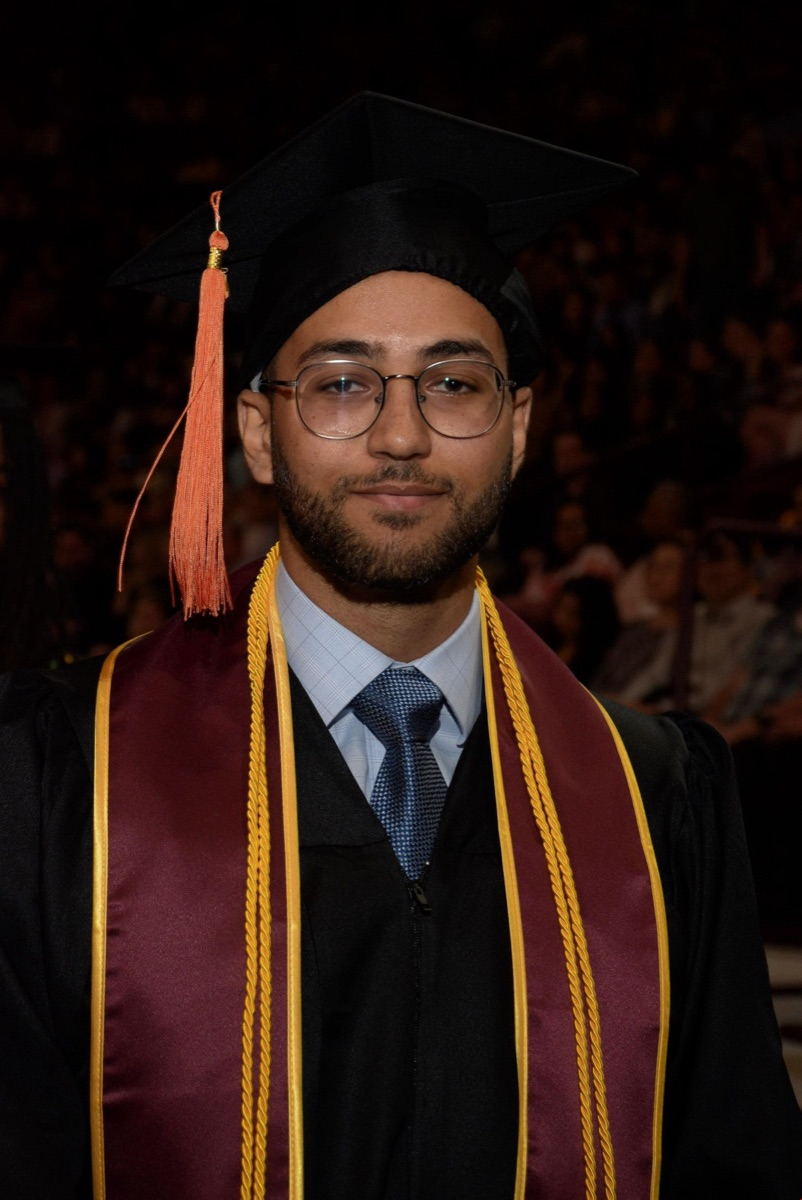
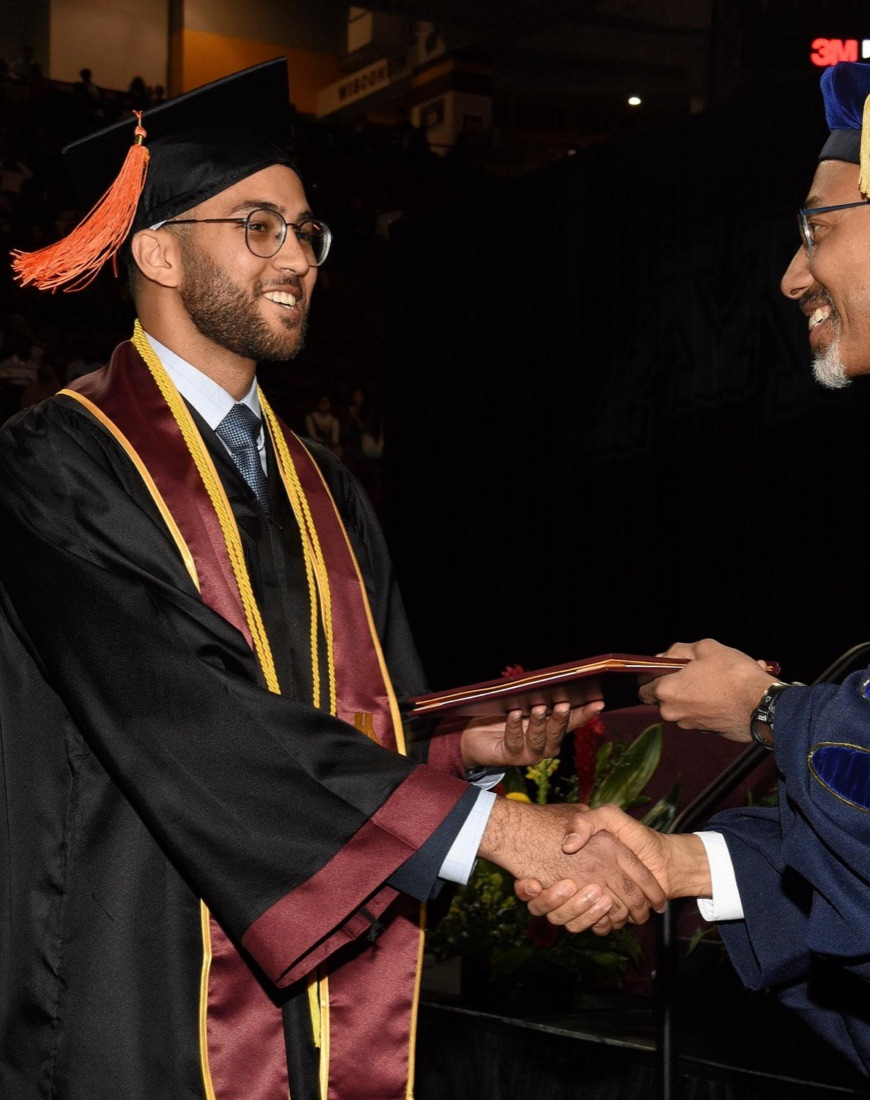
Use graduation portrait as profile photo; diploma photo in About

diff --git a/index.html b/index.html
@@ -7,7 +7,7 @@
     <meta name="description" content="Shady Ali works on interpretability, representation learning and LLM evaluation at Minnesota NLP, and as a Machine Learning Engineer at Cogmenta.">
     <meta property="og:title" content="Shady Ali">
     <meta property="og:description" content="Interpretability, representation learning and LLM evaluation. Papers, experience and CV.">
-    <meta property="og:image" content="https://shadyali.com/pp.JPG">
+    <meta property="og:image" content="https://shadyali.com/profile.jpg">
     <link rel="preconnect" href="https://fonts.googleapis.com">
     <link rel="preconnect" href="https://fonts.gstatic.com" crossorigin>
     <link href="https://fonts.googleapis.com/css2?family=Source+Serif+4:opsz,wght@8..60,400..700&family=Geist:wght@400;500&display=swap" rel="stylesheet">
@@ -33,7 +33,7 @@
             <div class="container hero-grid">
                 <div class="hero-intro">
                     <figure class="portrait" data-slot="portrait" data-alt="Shady Ali">
-                        <img src="pp.JPG" alt="Shady Ali" width="591" height="591" fetchpriority="high">
+                        <img src="profile.jpg" alt="Shady Ali in cap and gown at graduation" width="640" height="640" fetchpriority="high">
                     </figure>
                     <div class="name-row">
                         <h1>Shady Ali</h1>
@@ -114,8 +114,8 @@
                 </div>
                 <aside class="facts" aria-label="Education and honors">
                     <figure class="grad-photo">
-                        <img src="graduation.jpg" alt="Shady Ali in cap and gown with a maroon and gold stole at graduation" width="802" height="1200" loading="lazy">
-                        <figcaption>Graduation, University of Minnesota, 2026.</figcaption>
+                        <img src="graduation.jpg" alt="Shady Ali shaking hands on stage as he receives his diploma at the University of Minnesota commencement" width="870" height="1100" loading="lazy">
+                        <figcaption>Receiving my diploma, University of Minnesota, 2026.</figcaption>
                     </figure>
                     <h3>Education</h3>
                     <dl>

diff --git a/styles.css b/styles.css
@@ -43,6 +43,8 @@ h3 { font-optical-sizing: auto; line-height: 1.15; }
 .hero { padding-block: var(--space-2xl) var(--space-3xl); border-bottom: var(--rule-hair) solid var(--color-rule); }
 .hero-grid { display: grid; grid-template-columns: minmax(0, 5fr) minmax(0, 7fr); column-gap: var(--space-3xl); row-gap: var(--space-xl); align-items: start; }
 .portrait { width: var(--portrait); aspect-ratio: 1; margin: 0 0 var(--space-xl); }
+.portrait > img { filter: none; mix-blend-mode: normal; }
+.portrait[data-slot]:has(> img)::before { display: none; }
 .name-row { display: flex; flex-wrap: wrap; align-items: baseline; column-gap: var(--space-md); row-gap: var(--space-2xs); margin-bottom: var(--space-lg); }
 .name-row .aka { font-size: var(--text-lg); color: var(--color-muted); }
 .hero .lead { margin-bottom: var(--space-xl); }
@@ -72,7 +74,7 @@ h3 { font-optical-sizing: auto; line-height: 1.15; }
 .letter p { font-size: var(--text-lead); line-height: 1.5; max-width: 50ch; margin-bottom: var(--space-lg); }
 .facts { grid-column: 9 / span 4; margin: 0; padding-top: var(--space-sm); }
 .grad-photo { margin: 0 0 var(--space-xl); }
-.grad-photo img { display: block; width: 100%; max-width: 320px; height: auto; aspect-ratio: 802 / 1200; object-fit: cover; }
+.grad-photo img { display: block; width: 100%; max-width: 320px; height: auto; aspect-ratio: 870 / 1100; object-fit: cover; }
 .grad-photo figcaption { margin-top: var(--space-xs); font-size: var(--text-sm); color: var(--color-muted); }
 .facts h3 { font-family: var(--font-body); font-size: var(--text-sm); font-weight: 500; letter-spacing: 0; color: var(--color-muted); padding-bottom: var(--space-xs); border-bottom: var(--rule-hair) solid var(--color-rule); margin-bottom: var(--space-md); }
 .facts dl { margin: 0 0 var(--space-xl); }
